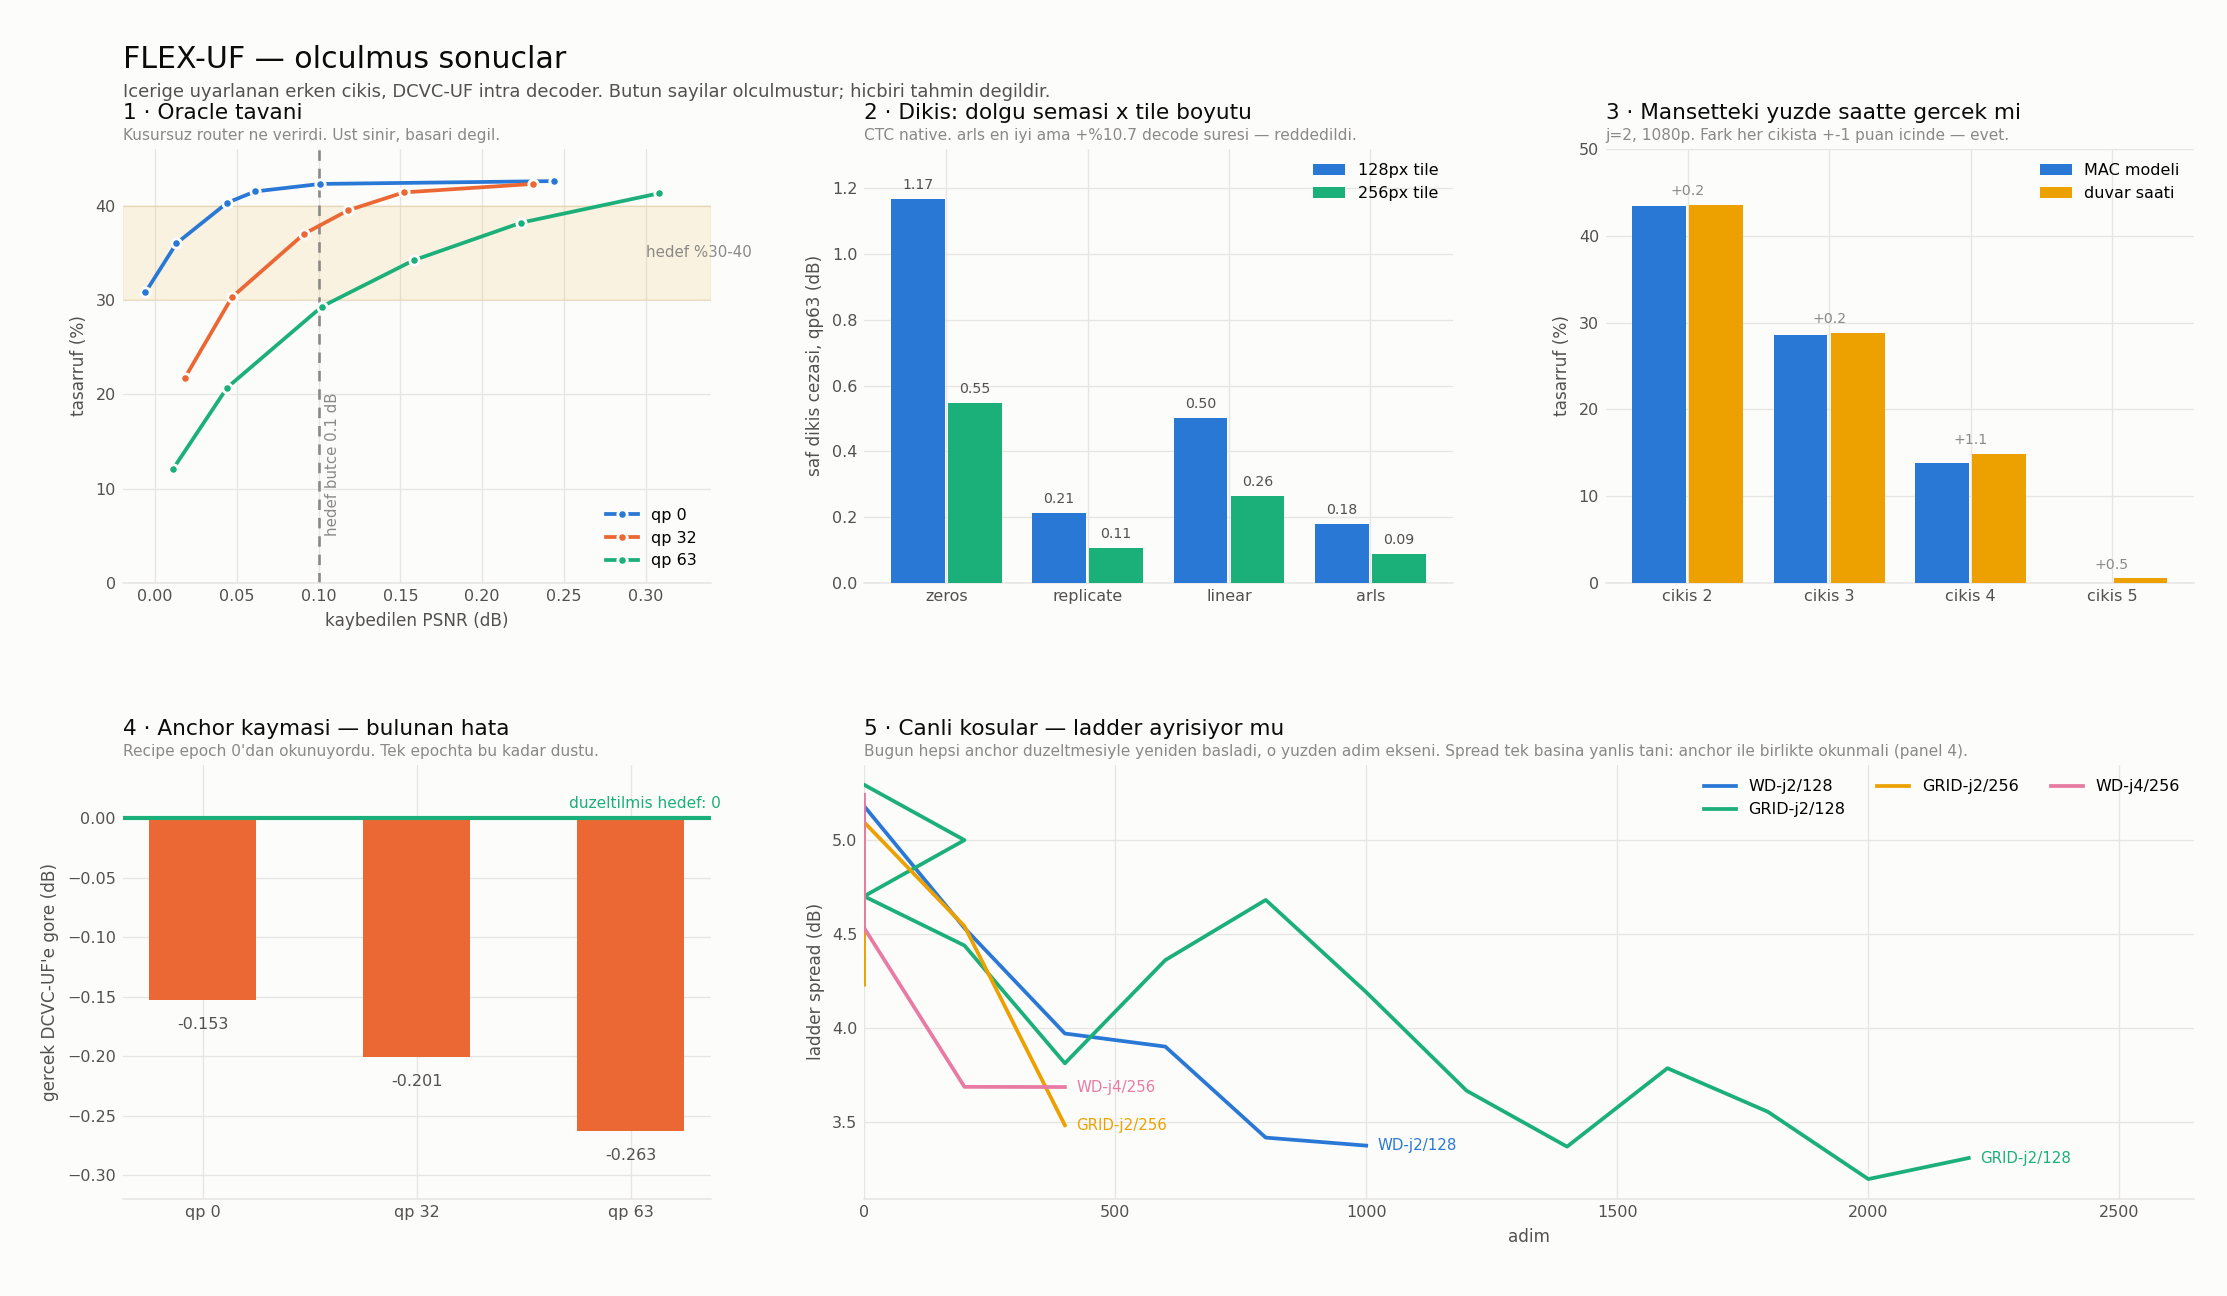
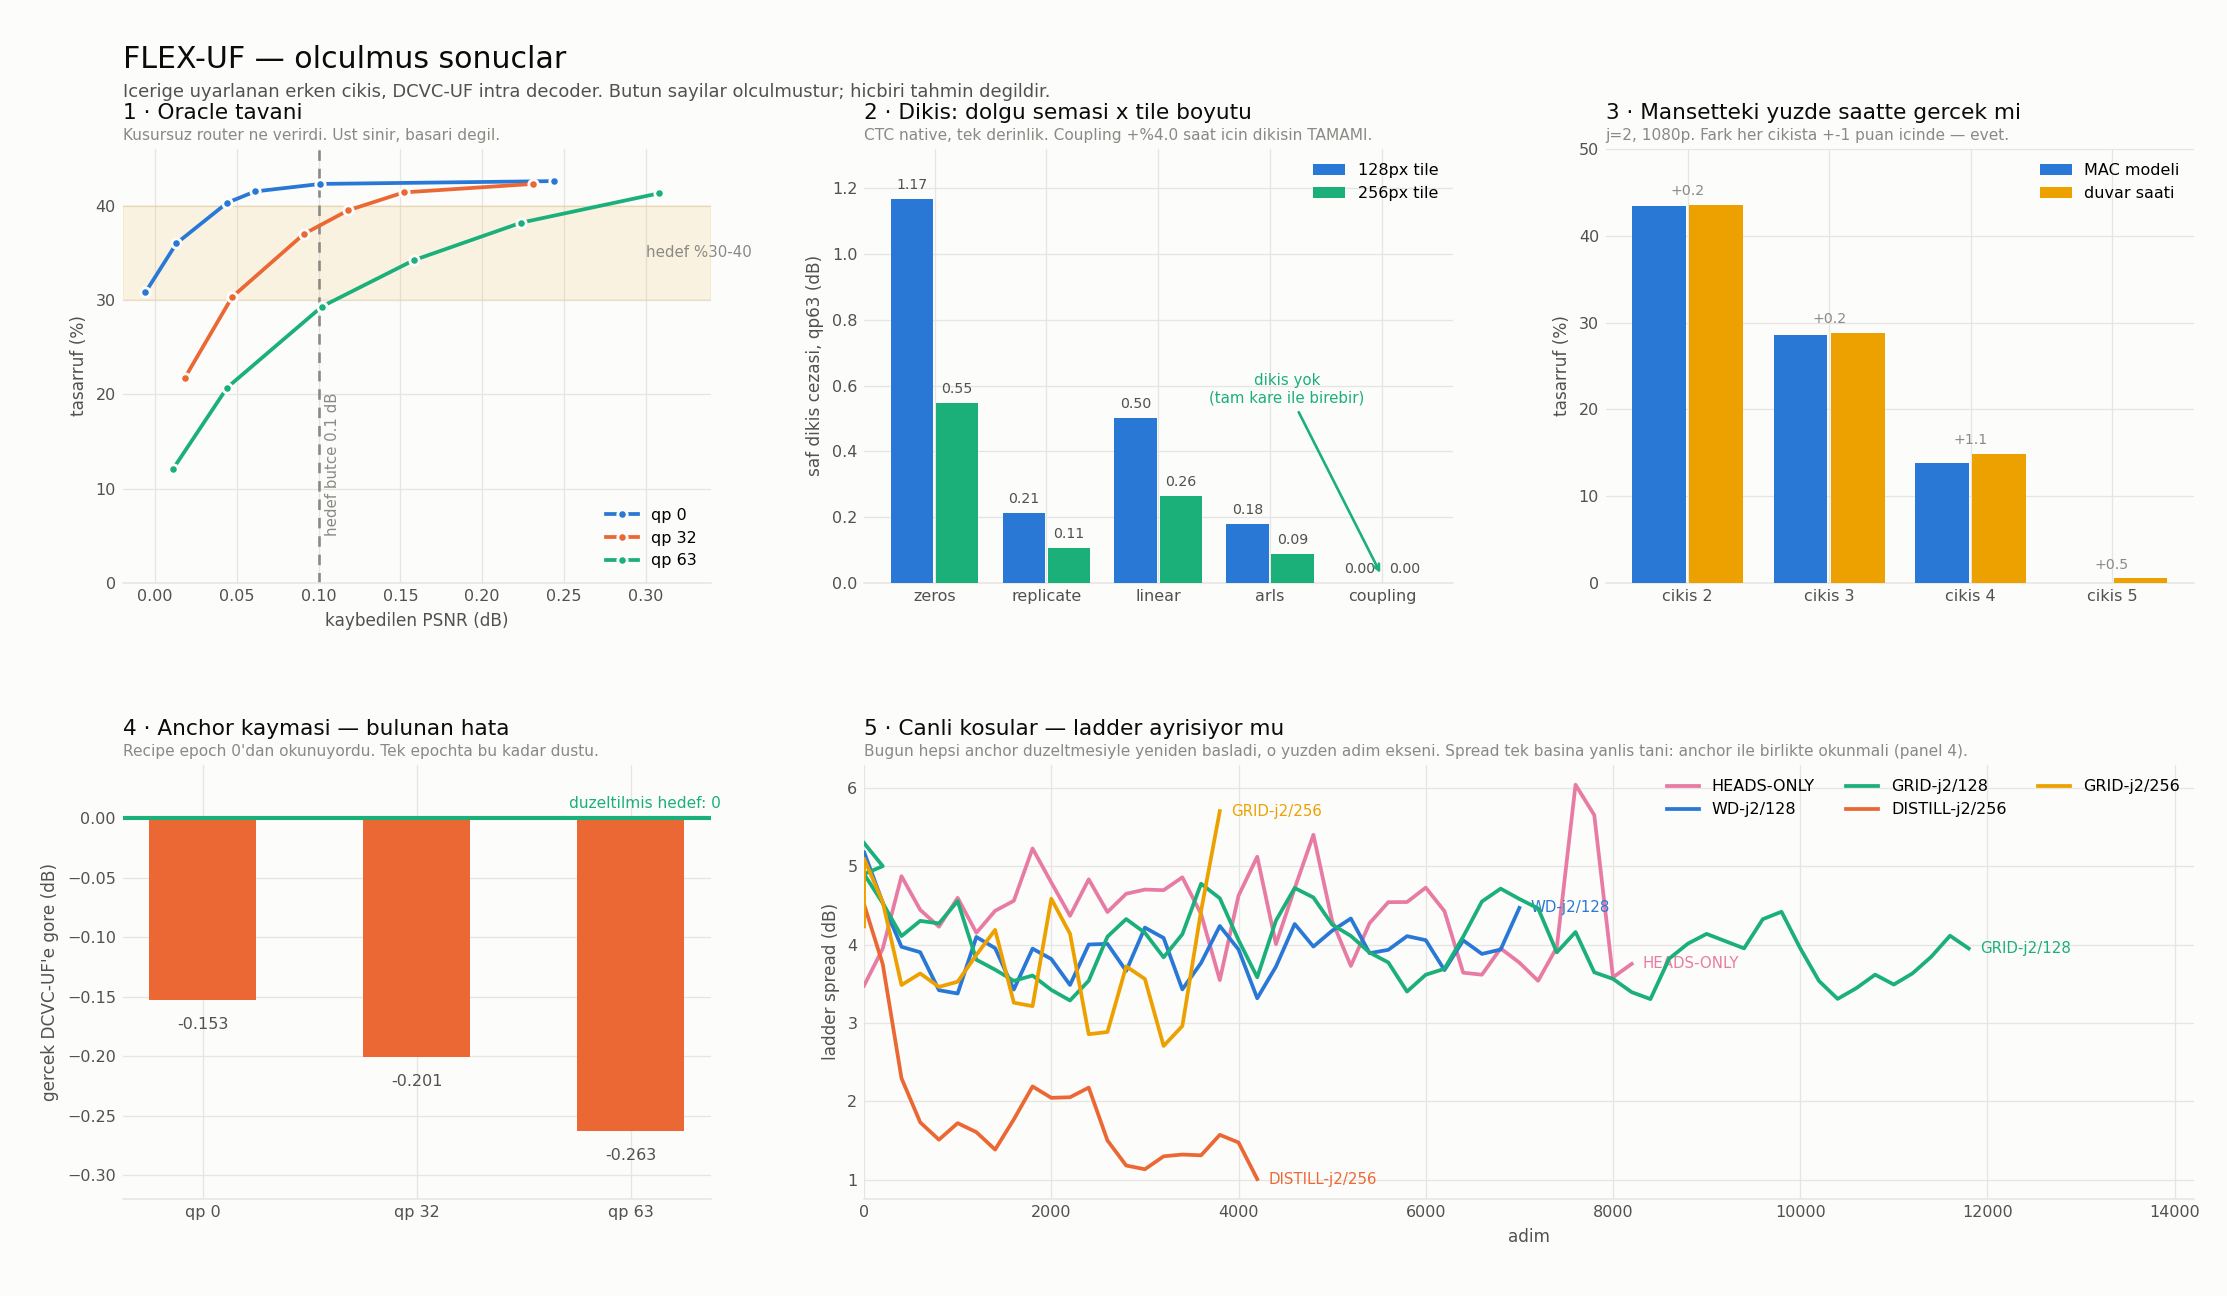
figure: add canvas coupling to the seam panel and HEADS-ONLY to the live panel

diff --git a/scripts/plot_all.py b/scripts/plot_all.py
@@ -65,9 +65,12 @@ style(a, "1 · Oracle tavani", "Kusursuz router ne verirdi. Ust sinir, basari de
 
 # ---- 2. seam penalty ------------------------------------------------------
 a = fig.add_subplot(gs[0, 1])
-MODES = ["zeros", "replicate", "linear", "arls"]
-P128 = [1.1670, 0.2125, 0.5021, 0.1785]
-P256 = [0.5477, 0.1070, 0.2638, 0.0879]
+# canvas coupling is measured at 0.0000 at every QP and both tile sizes -- not
+# rounded to zero, exactly zero, because the depthwise on the assembled canvas IS
+# the one the full-frame decoder runs.
+MODES = ["zeros", "replicate", "linear", "arls", "coupling"]
+P128 = [1.1670, 0.2125, 0.5021, 0.1785, 0.0]
+P256 = [0.5477, 0.1070, 0.2638, 0.0879, 0.0]
 xs = range(len(MODES)); w = 0.38
 a.bar([x - w/2 - 0.012 for x in xs], P128, w, color=S1, label="128px tile", zorder=3)
 a.bar([x + w/2 + 0.012 for x in xs], P256, w, color=S3, label="256px tile", zorder=3)
@@ -75,12 +78,15 @@ for x, v in zip(xs, P128):
     a.text(x - w/2 - 0.012, v + 0.03, f"{v:.2f}", ha="center", color=INK2, fontsize=7.5)
 for x, v in zip(xs, P256):
     a.text(x + w/2 + 0.012, v + 0.03, f"{v:.2f}", ha="center", color=INK2, fontsize=7.5)
-a.set_xticks(list(xs)); a.set_xticklabels(MODES)
+a.annotate("dikis yok\n(tam kare ile birebir)", xy=(4, 0.02), xytext=(3.15, 0.55),
+           color=S3, fontsize=8, ha="center",
+           arrowprops=dict(arrowstyle="->", color=S3, lw=1.4))
+a.set_xticks(list(xs)); a.set_xticklabels(MODES, fontsize=7.5)
 a.set_ylabel("saf dikis cezasi, qp63 (dB)", color=INK2, fontsize=9)
 a.set_ylim(0, 1.32)
 a.legend(fontsize=8.5, frameon=False)
 style(a, "2 · Dikis: dolgu semasi x tile boyutu",
-      "CTC native. arls en iyi ama +%10.7 decode suresi — reddedildi.")
+      "CTC native, tek derinlik. Coupling +%4.0 saat icin dikisin TAMAMI.")
 
 # ---- 3. MAC vs wall clock -------------------------------------------------
 a = fig.add_subplot(gs[0, 2])
@@ -118,7 +124,7 @@ style(a, "4 · Anchor kaymasi — bulunan hata",
 a = fig.add_subplot(gs[1, 1:])
 alive = hb.live_runs()
 COL = {"WD-j2/128": S1, "GRID-j2/128": S3, "GRID-j2/256": S4,
-       "DISTILL-j2/256": S2, "WD-j4/256": S5}
+       "DISTILL-j2/256": S2, "HEADS-ONLY": S5}
 for tag in sorted(alive):
     f = Path("runs") / tag / "train_log.jsonl"
     if not f.exists():
